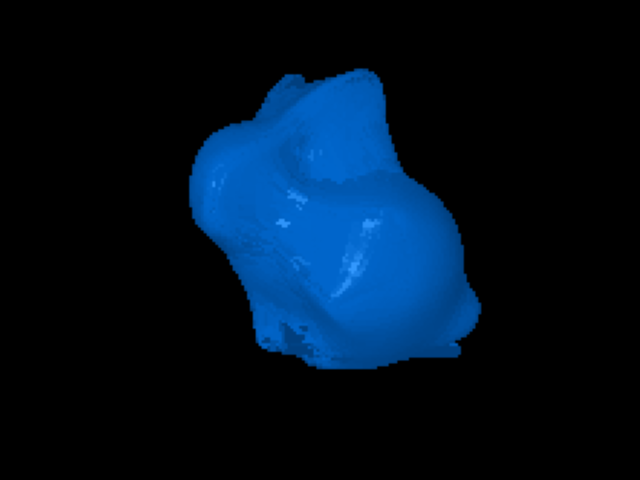
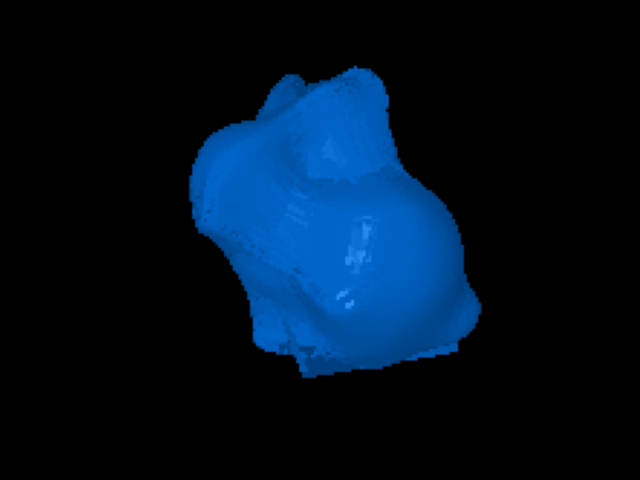
print weights in graph

diff --git a/homeworks/constantin/7-dda2/main.py b/homeworks/constantin/7-dda2/main.py
@@ -147,7 +147,7 @@ loss = criterionMSE(images1, images2)
 
 
 # Number of optimization steps
-Niter = 5000
+Niter = 500
 # Weight for the chamfer loss
 w_chamfer = 1.0 
 # Weight for the MSELoss between the rendered images
@@ -236,11 +236,11 @@ print("Optimizing end")
 #Visualize the loss
 fig = plt.figure(figsize=(13, 5))
 ax = fig.gca()
-ax.plot(chamfer_losses, label="chamfer loss")
-ax.plot(edge_losses, label="edge loss")
-ax.plot(normal_losses, label="normal loss")
-ax.plot(laplacian_losses, label="laplacian loss")
-ax.plot(mse_rendered_losses, label="mse rendered loss")
+ax.plot(chamfer_losses, label="chamfer loss (w:"+str(w_chamfer)+")")
+ax.plot(edge_losses, label="edge loss (w:"+str(w_edge)+")")
+ax.plot(normal_losses, label="normal loss (w:"+str(w_normal)+")")
+ax.plot(laplacian_losses, label="laplacian loss (w:"+str(w_laplacian)+")")
+ax.plot(mse_rendered_losses, label="mse rendered loss (w:"+str(w_mse_rendered)+")")
 ax.legend(fontsize="16")
 ax.set_xlabel("Iteration", fontsize="16")
 ax.set_ylabel("Loss", fontsize="16")
